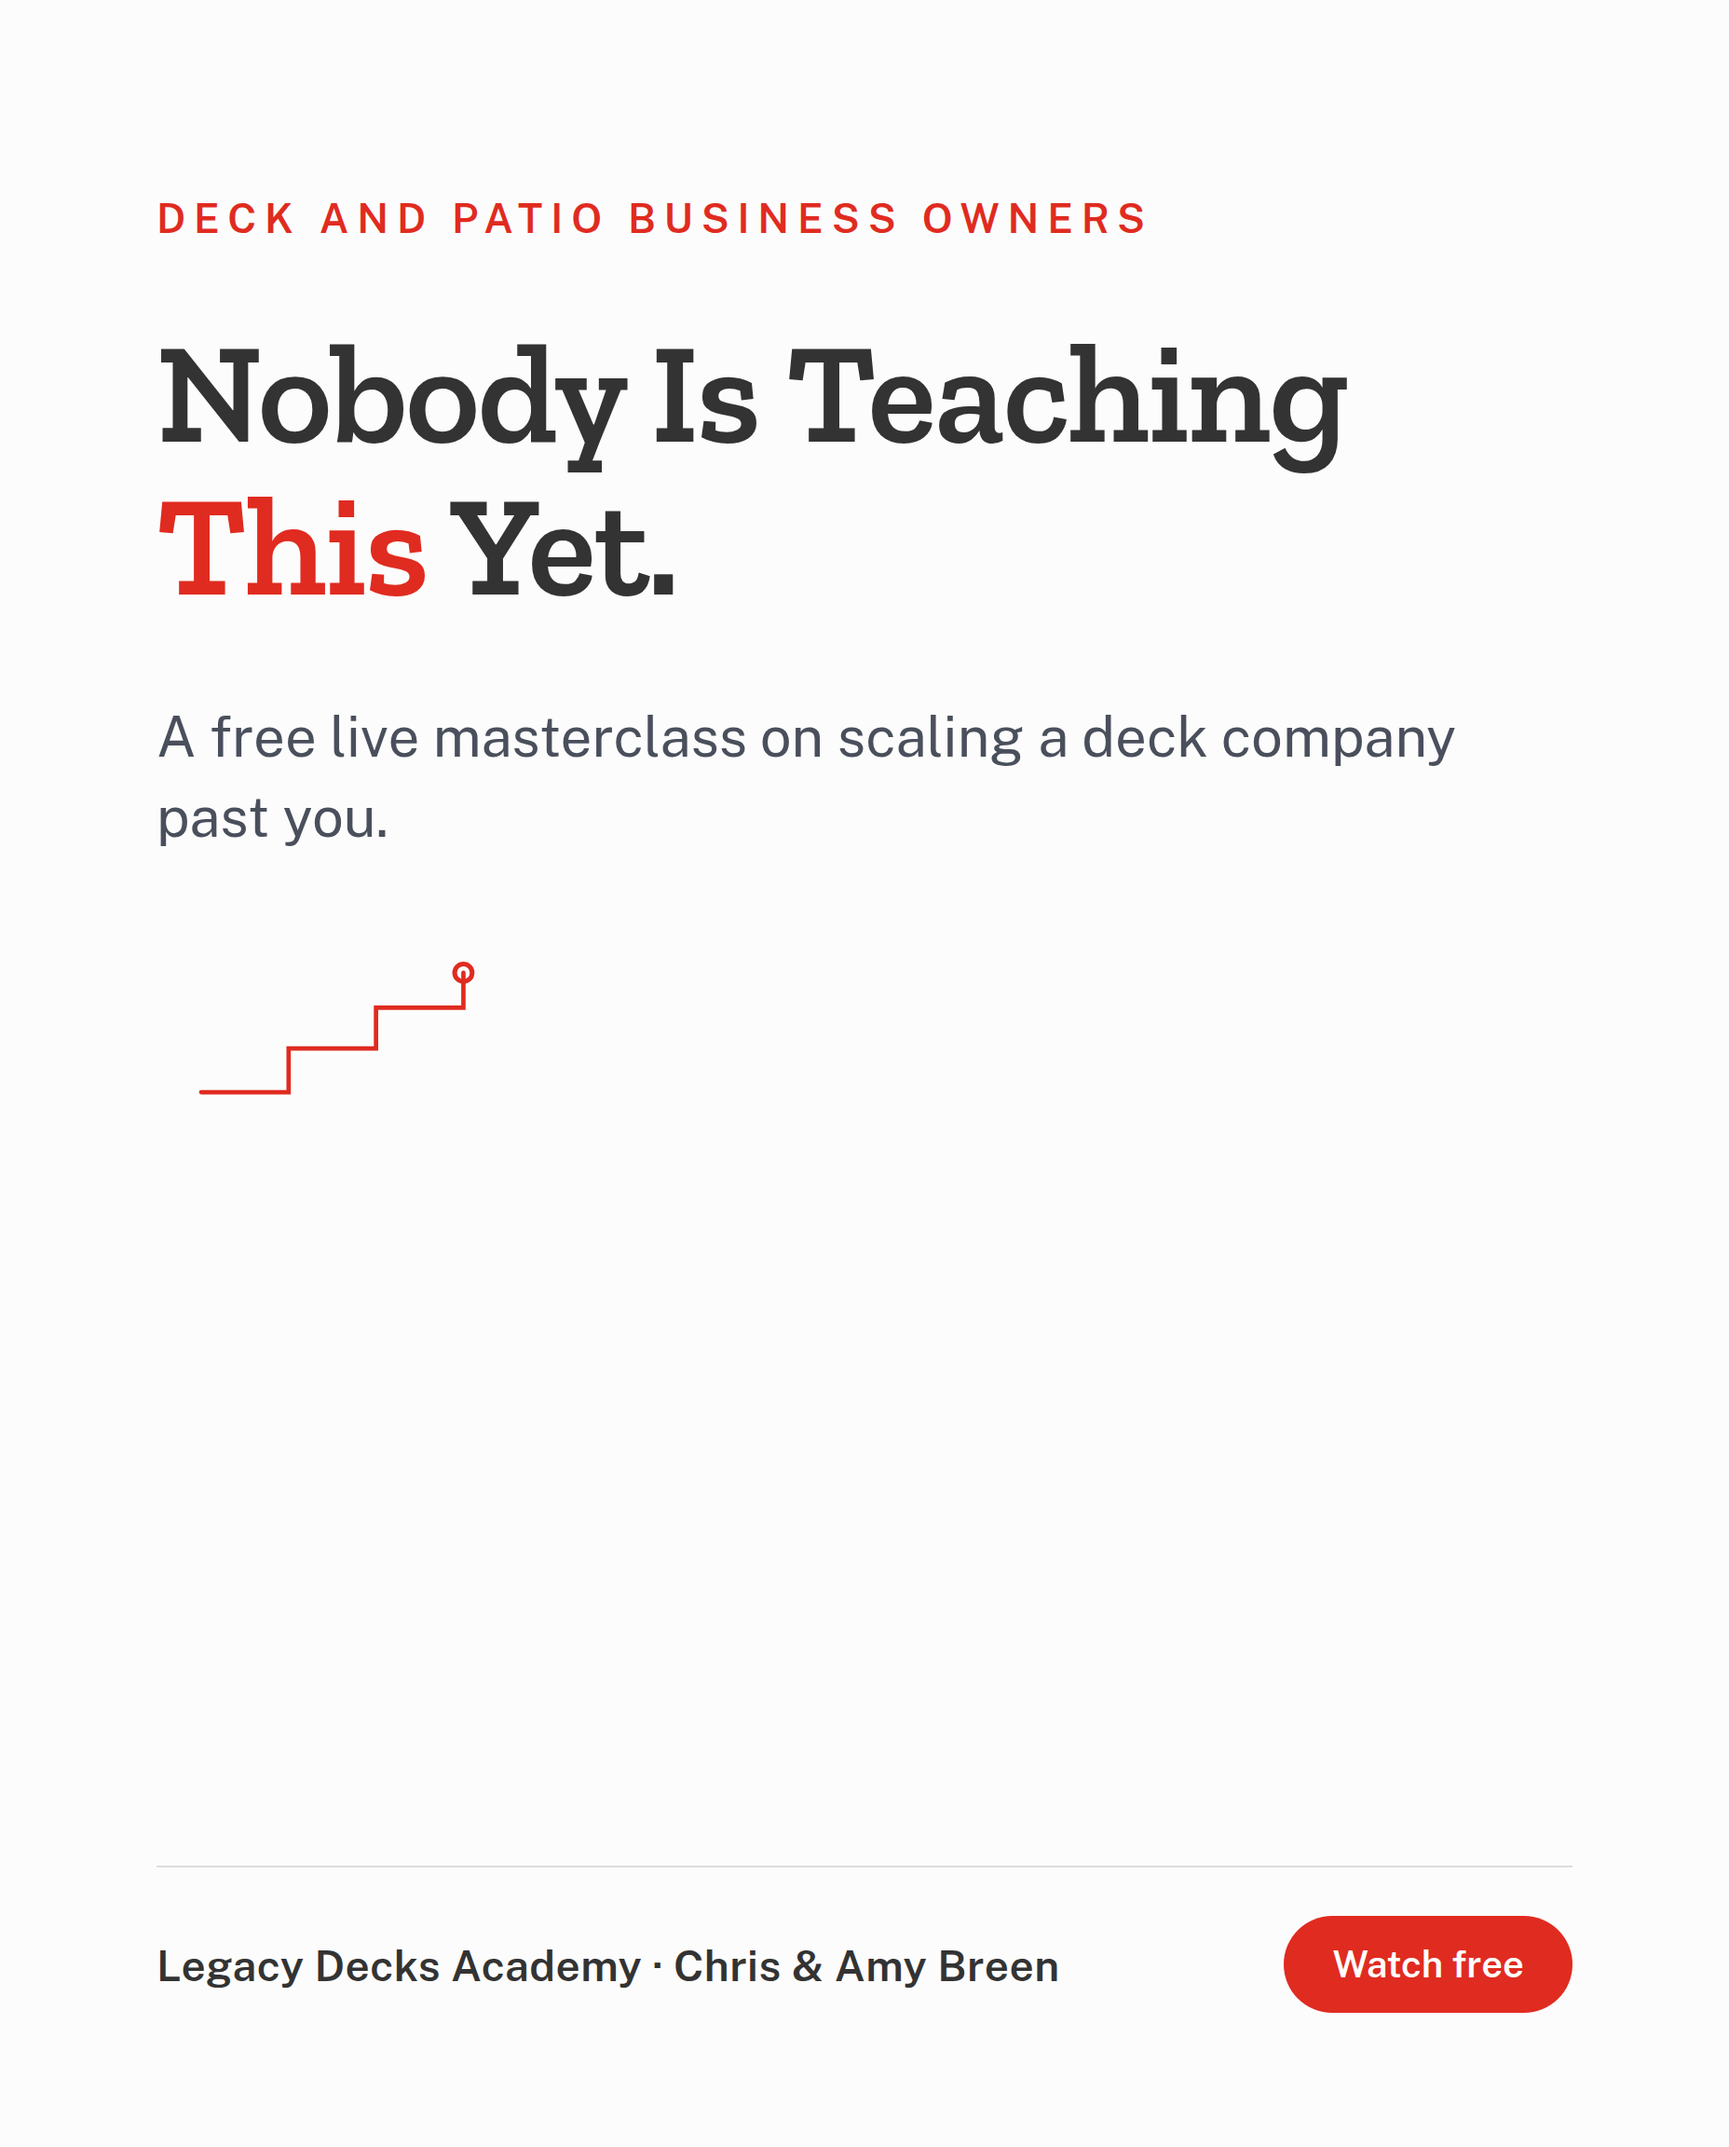
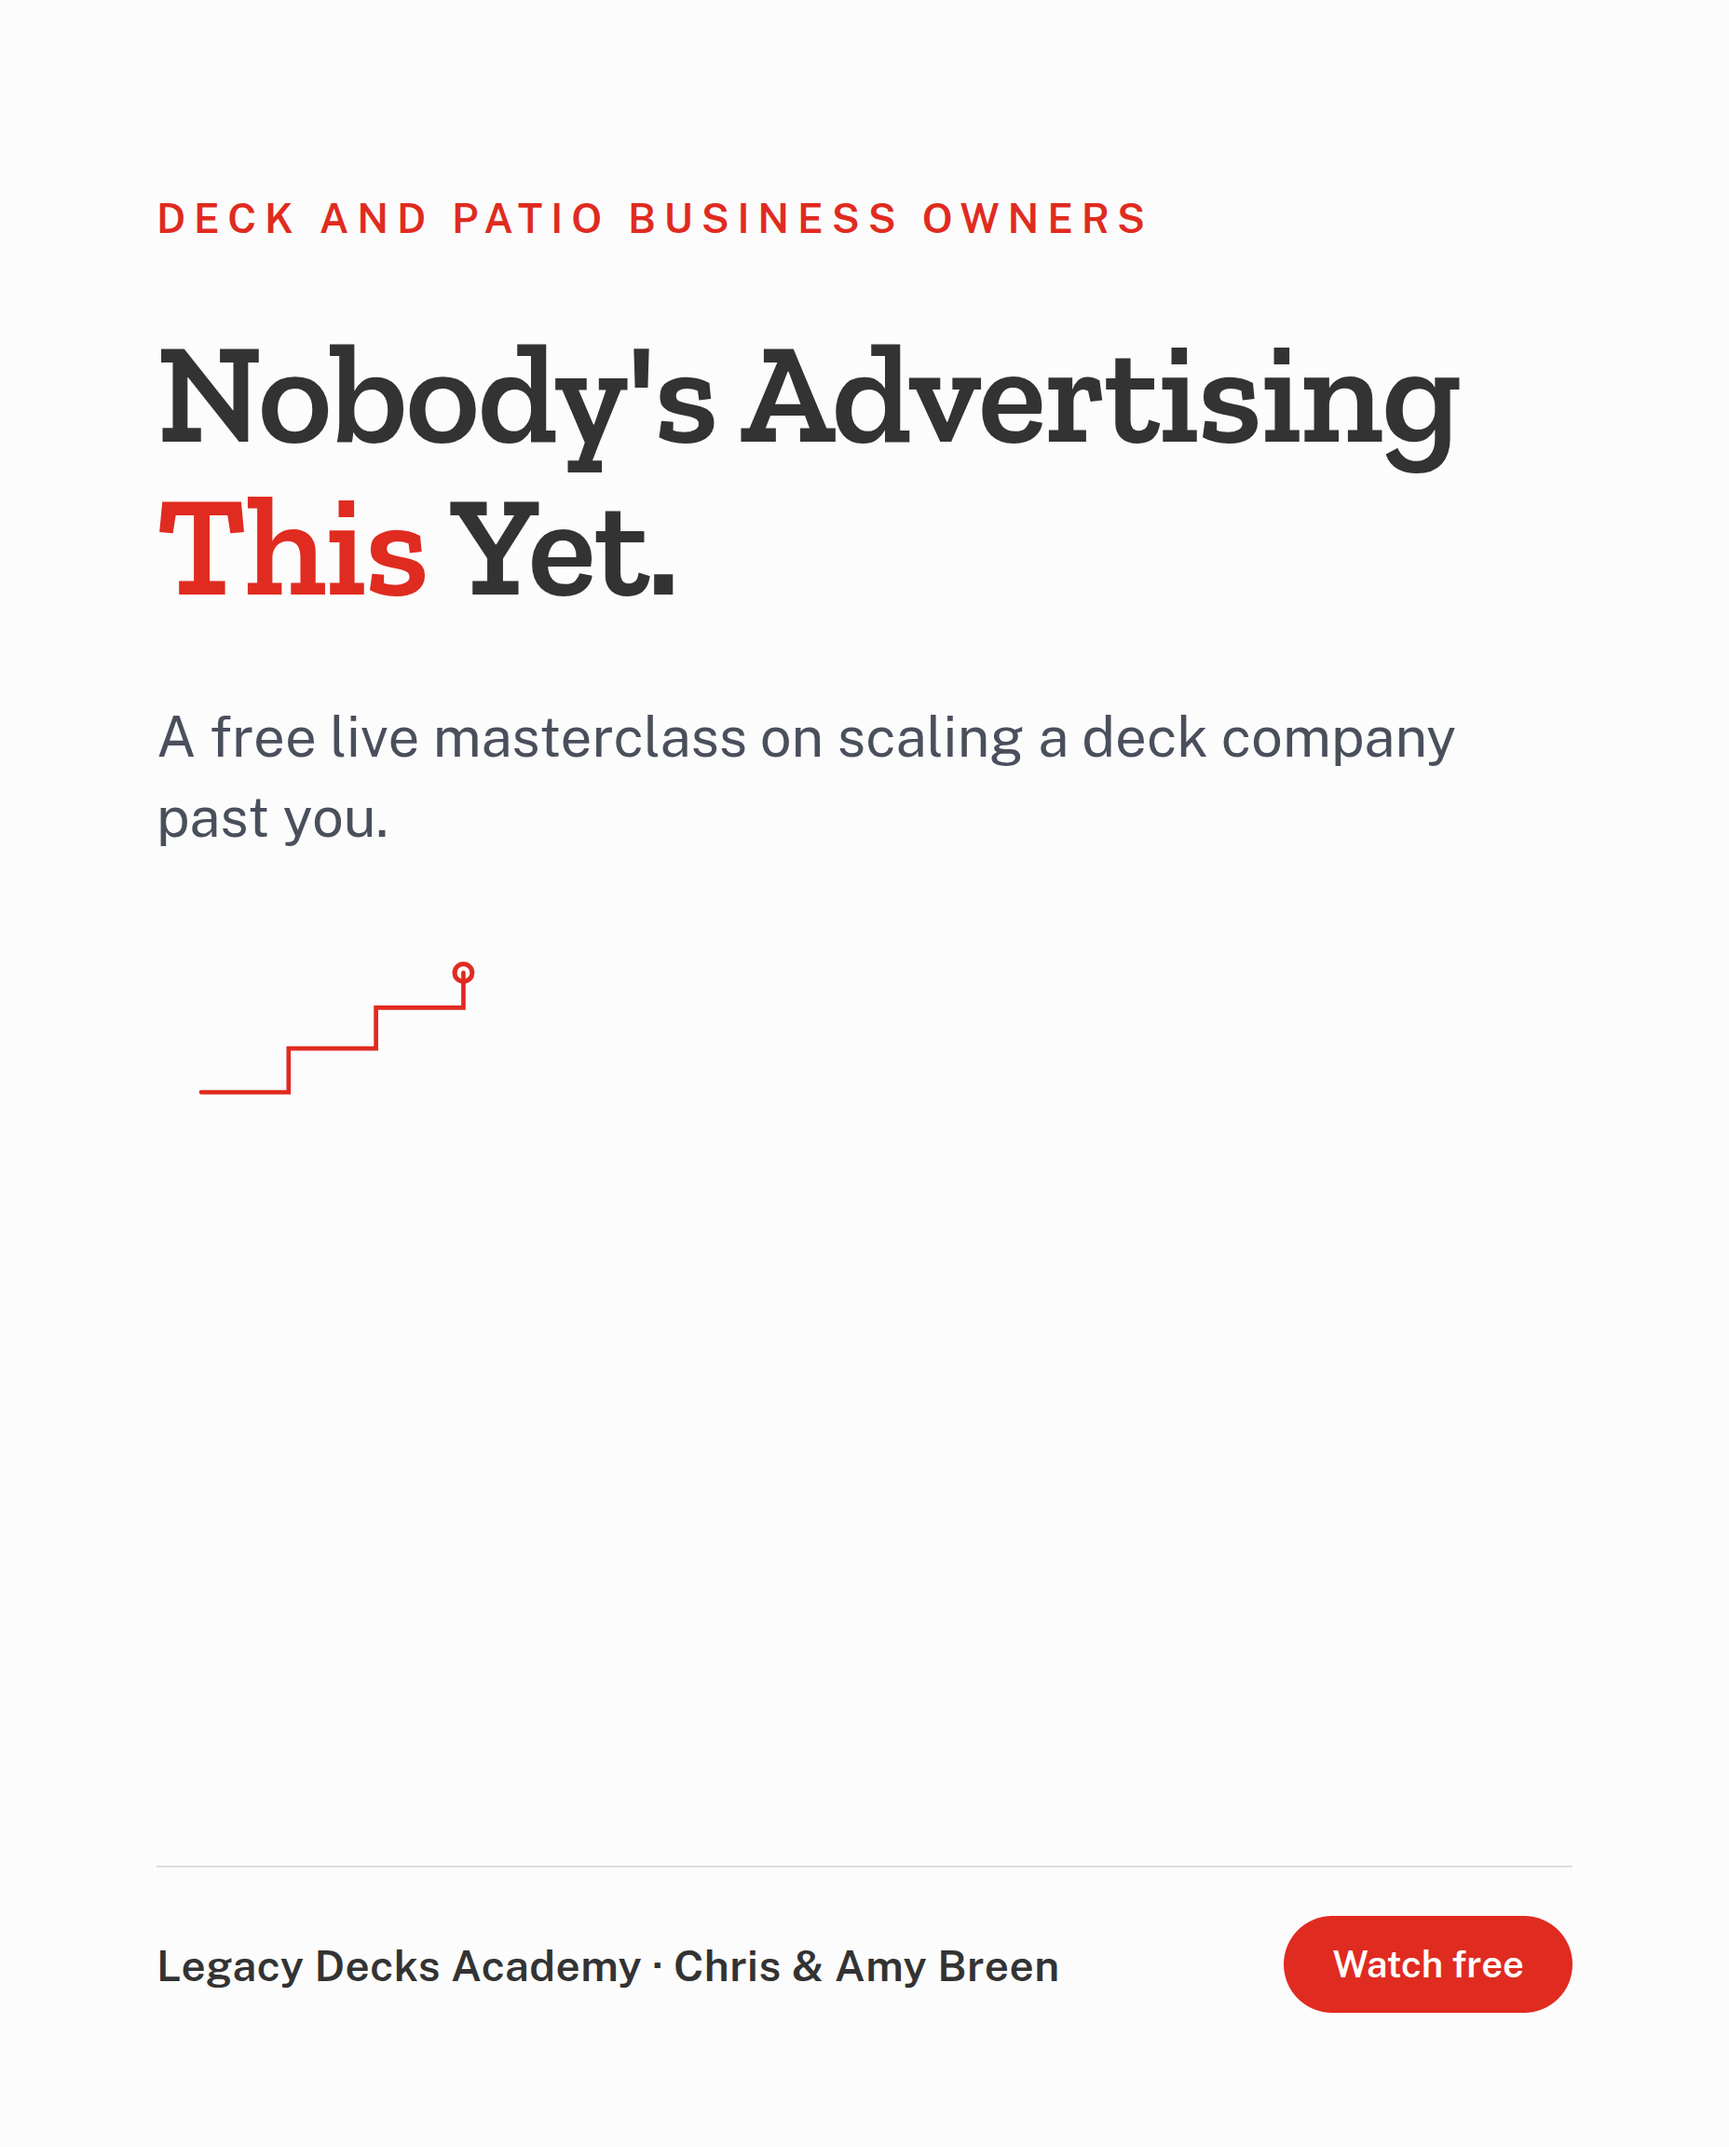
showcase: legacy-decks-academy

Changed region(s): [[0.3438, 0.1562, 0.8438, 0.2188]]

diff --git a/legacy-decks-academy/index.html b/legacy-decks-academy/index.html
@@ -87,7 +87,7 @@
     <p>Four ad directions in your own colors, built from your own material, written to stop a deck or patio business owner mid-scroll.</p>
     <div class="ad-grid">
       <img src="/legacy-decks-academy/ad01.png" alt="Ad concept: The Systems We Actually Run">
-      <img src="/legacy-decks-academy/ad02.png" alt="Ad concept: Nobody Is Teaching This Yet">
+      <img src="/legacy-decks-academy/ad02.png" alt="Ad concept: Nobody's Advertising This Yet">
       <img src="/legacy-decks-academy/ad03.png" alt="Ad concept: Stop Running On Chaos">
       <img src="/legacy-decks-academy/ad04.png" alt="Ad concept: The Legacy Execution Masterclass invitation">
     </div>
